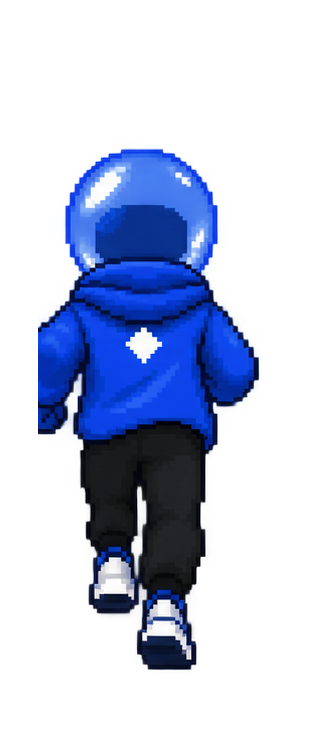
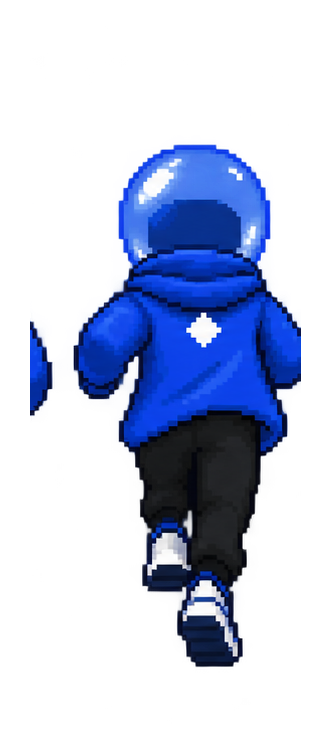
feat: add slide hazards and smooth runner cycle

diff --git a/public/index.html b/public/index.html
@@ -6,20 +6,20 @@
 <meta name="theme-color" content="#126cff">
 <title>DLICOM RUNNER</title>
 <style>
-:root{--blue:#126cff;--ink:#05070d;--paper:#f7f9ff;--muted:#9ca6bd;--line:#263047;--red:#ff416c}*{box-sizing:border-box}html,body{min-height:100%;margin:0;background:var(--ink);color:var(--paper);font-family:Arial,Helvetica,sans-serif}body{overflow-x:hidden}.shell{width:min(1080px,100%);margin:auto;padding:0 14px}.top{height:66px;display:flex;align-items:center;justify-content:space-between;border-bottom:1px solid var(--line)}.mark{font-size:20px;font-weight:950;letter-spacing:-1.7px}.mark i{display:inline-block;color:var(--blue);font-style:normal;transform:skew(-12deg)}.rule{font:700 11px monospace;letter-spacing:.12em;color:var(--muted)}.intro{padding:38px 0 28px;display:grid;justify-items:center;gap:24px;text-align:center}.intro h1{margin:0;font-size:clamp(48px,9vw,105px);line-height:.78;letter-spacing:-.1em}.intro h1 span{color:var(--blue)}.brief{width:min(440px,100%);border:1px solid var(--line);background:#0b0f19;padding:17px;color:#cbd4e7;font-size:14px;line-height:1.52;text-align:justify}.brief b:first-child{display:block;text-align:center;color:var(--blue);font:900 11px monospace;letter-spacing:.1em}.arena{position:relative;aspect-ratio:16/9;min-height:420px;overflow:hidden;border:1px solid var(--line);background:#080b12;touch-action:none}.arena canvas{display:block;width:100%;height:100%}.hud{pointer-events:none;position:absolute;inset:0;padding:15px;display:flex;justify-content:space-between;align-items:flex-start}.scorebox{display:flex;gap:11px;font:900 11px monospace;color:#aeb9ce}.scorebox b{display:block;color:var(--blue);font-size:21px;letter-spacing:-1px}.surge{opacity:0;background:var(--blue);color:#fff;padding:7px 10px;font:900 11px monospace;letter-spacing:.08em;transition:opacity .15s}.surge.on{opacity:1}.overlay{position:absolute;inset:0;display:grid;place-items:center;text-align:center;background:rgba(5,7,13,.72);padding:20px}.overlay>div{width:min(100%,460px);display:grid;justify-items:center}.overlay[hidden]{display:none}.overlay h2{margin:0 0 13px;font-size:clamp(42px,8vw,82px);line-height:.8;letter-spacing:-.1em}.overlay p{max-width:390px;margin:0 0 21px;color:#c7d1e7;line-height:1.45}.arena.collect{box-shadow:inset 0 0 170px 55px rgba(18,108,255,.85);border-color:#b9d7ff}.arena.damage{box-shadow:inset 0 0 170px 55px rgba(255,65,108,.85);border-color:#ff9ab0}.button{appearance:none;min-height:46px;border:0;background:var(--blue);color:#fff;padding:13px 17px;font:900 13px monospace;letter-spacing:.08em;cursor:pointer}.button:hover{filter:brightness(1.15)}.button:focus-visible{outline:3px solid white;outline-offset:3px}.below{display:grid;grid-template-columns:1fr 1fr 1.45fr;gap:1px;margin:1px 0 38px;background:var(--line)}.panel{min-height:108px;padding:17px;background:#0a0e17}.panel span{display:block;color:var(--muted);font:700 10px monospace;letter-spacing:.1em}.panel strong{display:block;margin-top:7px;font-size:30px;letter-spacing:-.06em}.actions{display:flex;flex-wrap:wrap;gap:8px;margin-top:12px}.secondary{border:1px solid #53617b;background:transparent}.ref{margin-top:10px;color:#9fa9be;font:11px monospace;word-break:break-all}.foot{padding:18px 0 42px;color:#78839b;font:12px monospace}@media(max-width:680px){.intro{grid-template-columns:1fr;padding:29px 0 22px}.brief{width:100%}.arena{margin-left:-14px;margin-right:-14px;aspect-ratio:9/13;min-height:480px;border-left:0;border-right:0}.below{grid-template-columns:1fr}.rule{font-size:9px}}
+:root{--blue:#126cff;--ink:#05070d;--paper:#f7f9ff;--muted:#9ca6bd;--line:#263047;--red:#ff416c}*{box-sizing:border-box}html,body{min-height:100%;margin:0;background:var(--ink);color:var(--paper);font-family:Arial,Helvetica,sans-serif}body{overflow-x:hidden}.shell{width:min(1080px,100%);margin:auto;padding:0 14px}.top{height:66px;display:flex;align-items:center;justify-content:space-between;border-bottom:1px solid var(--line)}.mark{font-size:20px;font-weight:950;letter-spacing:-1.7px}.mark i{display:inline-block;color:var(--blue);font-style:normal;transform:skew(-12deg)}.rule{font:700 11px monospace;letter-spacing:.12em;color:var(--muted)}.intro{padding:38px 0 28px;display:grid;justify-items:center;gap:24px;text-align:center}.intro h1{margin:0;font-size:clamp(48px,9vw,105px);line-height:.78;letter-spacing:-.1em}.intro h1 span{color:var(--blue)}.brief{width:min(440px,100%);border:1px solid var(--line);background:#0b0f19;padding:17px;color:#cbd4e7;font-size:14px;line-height:1.52;text-align:justify}.brief b:first-child{display:block;text-align:center;color:var(--blue);font:900 11px monospace;letter-spacing:.1em}.arena{position:relative;aspect-ratio:16/9;min-height:420px;overflow:hidden;border:1px solid var(--line);background:#080b12;touch-action:none}.arena canvas{display:block;width:100%;height:100%}.hud{pointer-events:none;position:absolute;inset:0;padding:15px;display:flex;justify-content:space-between;align-items:flex-start}.scorebox{display:flex;gap:11px;font:900 11px monospace;color:#aeb9ce}.scorebox b{display:block;color:var(--blue);font-size:21px;letter-spacing:-1px}.surge{opacity:0;background:var(--blue);color:#fff;padding:7px 10px;font:900 11px monospace;letter-spacing:.08em;transition:opacity .15s}.surge.on{opacity:1}.slide{pointer-events:auto;position:absolute;right:12px;bottom:12px;min-height:56px;min-width:96px;border:2px solid var(--blue);background:rgba(5,7,13,.55);color:#fff;font:900 13px monospace;letter-spacing:.08em;cursor:pointer;touch-action:none}.slide:active{background:var(--blue)}.overlay{position:absolute;inset:0;display:grid;place-items:center;text-align:center;background:rgba(5,7,13,.72);padding:20px}.overlay>div{width:min(100%,460px);display:grid;justify-items:center}.overlay[hidden]{display:none}.overlay h2{margin:0 0 13px;font-size:clamp(42px,8vw,82px);line-height:.8;letter-spacing:-.1em}.overlay p{max-width:390px;margin:0 0 21px;color:#c7d1e7;line-height:1.45}.arena.collect{box-shadow:inset 0 0 170px 55px rgba(18,108,255,.85);border-color:#b9d7ff}.arena.damage{box-shadow:inset 0 0 170px 55px rgba(255,65,108,.85);border-color:#ff9ab0}.button{appearance:none;min-height:46px;border:0;background:var(--blue);color:#fff;padding:13px 17px;font:900 13px monospace;letter-spacing:.08em;cursor:pointer}.button:hover{filter:brightness(1.15)}.button:focus-visible{outline:3px solid white;outline-offset:3px}.below{display:grid;grid-template-columns:1fr 1fr 1.45fr;gap:1px;margin:1px 0 38px;background:var(--line)}.panel{min-height:108px;padding:17px;background:#0a0e17}.panel span{display:block;color:var(--muted);font:700 10px monospace;letter-spacing:.1em}.panel strong{display:block;margin-top:7px;font-size:30px;letter-spacing:-.06em}.actions{display:flex;flex-wrap:wrap;gap:8px;margin-top:12px}.secondary{border:1px solid #53617b;background:transparent}.ref{margin-top:10px;color:#9fa9be;font:11px monospace;word-break:break-all}.foot{padding:18px 0 42px;color:#78839b;font:12px monospace}@media(max-width:680px){.intro{grid-template-columns:1fr;padding:29px 0 22px}.brief{width:100%}.arena{margin-left:-14px;margin-right:-14px;aspect-ratio:9/13;min-height:480px;border-left:0;border-right:0}.below{grid-template-columns:1fr}.rule{font-size:9px}}
 </style>
 </head>
 <body><div class="shell">
 <header class="top"><div class="mark">DLICOM<i>◆</i>RUNNER</div></header>
-<main><section class="intro"><h1>MAKE A<br><span>DILI</span><br>RUN AWAY.</h1><div class="brief"><b>HOW TO RUN</b><br>Swipe or press left/right to switch lanes. Press space to jump over red barriers. Catch blue signals. Avoid red noise. Every 3 signals triggers <b>DILI-SUPER MODE</b>: double score and immunity.</div></section>
-<section class="arena" id="arena" aria-label="Dlicom Runner game"><div class="hud"><div class="scorebox"><div>SCORE<b id="score">00000</b></div><div>BEST<b id="best">00000</b></div></div><div class="surge" id="surge">DILI-SUPER MODE ACTIVATED ×2</div></div><div class="overlay" id="overlay"><div><h2 id="stateTitle">READY?</h2><p id="stateCopy">Swipe, tap a side, or use arrow keys to switch lanes.</p><button class="button" id="play">START RUN</button></div></div></section>
+<main><section class="intro"><h1>MAKE A<br><span>DILI</span><br>RUN AWAY.</h1><div class="brief"><b>HOW TO RUN</b><br>Swipe or press left/right to switch lanes. Press space to jump over red barriers. Press SLIDE or down/S to duck floating hazards. Catch blue signals. Avoid red noise. Every 3 signals triggers <b>DILI-SUPER MODE</b>: double score and immunity.</div></section>
+<section class="arena" id="arena" aria-label="Dlicom Runner game"><div class="hud"><div class="scorebox"><div>SCORE<b id="score">00000</b></div><div>BEST<b id="best">00000</b></div></div><div class="surge" id="surge">DILI-SUPER MODE ACTIVATED ×2</div></div><button class="slide" id="slideBtn" aria-label="Slide under floating obstacle">SLIDE</button><div class="overlay" id="overlay"><div><h2 id="stateTitle">READY?</h2><p id="stateCopy">Swipe or tap side to switch lanes. Space jumps low barriers. Slide ducks floating hazards.</p><button class="button" id="play">START RUN</button></div></div></section>
 <section class="below"><div class="panel"><span>BEST RUN</span><strong id="bestPanel">0</strong></div><div class="panel"><span>SHIELD BOOST</span><strong id="shieldPanel">0 / 3</strong><div class="ref" id="refText"></div></div><div class="panel"><span>AFTER RUN</span><div class="actions"><button class="button secondary" id="share">POST SCORE ON X</button><button class="button secondary" id="banner">SAVE BANNER</button></div></div></section>
 </main><footer class="foot">DLICOM RUNNER · PLAY FIRST</footer></div>
 <script type="module">
 import * as THREE from './vendor/three.module.min.js';
 import {newGame,advance,difficultyLevel} from './game-core.js';
-const el=id=>document.querySelector('#'+id), arena=el('arena'), scoreEl=el('score'),bestEl=el('best'),bestPanel=el('bestPanel'),surgeEl=el('surge'),overlay=el('overlay'),play=el('play');
-let renderer,scene,camera,player,clock,game,entities=[],roadMarkers=[],bursts=[],runnerTextures=[],jumpTextures=[],audioCtx,musicTimer=null,musicStep=0,runClock=0,prevLevel=1,running=false,lane=1,high=Number(localStorage.dlicomRunnerHigh||0),lastSpawn=0,pointerX=null,jumpRequested=false,flashTimer=0,damageTimer=0;
+const el=id=>document.querySelector('#'+id), arena=el('arena'), scoreEl=el('score'),bestEl=el('best'),bestPanel=el('bestPanel'),surgeEl=el('surge'),overlay=el('overlay'),play=el('play'),slideBtn=el('slideBtn');
+let renderer,scene,camera,player,clock,game,entities=[],roadMarkers=[],bursts=[],runnerTextures=[],jumpTextures=[],audioCtx,musicTimer=null,musicStep=0,runClock=0,prevLevel=1,prevSurge=0,running=false,lane=1,high=Number(localStorage.dlicomRunnerHigh||0),lastSpawn=0,pointerX=null,jumpRequested=false,slideRequested=false,flashTimer=0,damageTimer=0;
 const lanes=[-2.7,0,2.7], shields=Number(localStorage.dlicomRunnerShield||0),refCode=localStorage.dlicomRunnerCode||(localStorage.dlicomRunnerCode=Math.random().toString(36).slice(2,8).toUpperCase());
 const incoming=new URLSearchParams(location.search).get('ref');if(incoming&&incoming!==localStorage.dlicomRunnerRef){localStorage.dlicomRunnerRef=incoming;localStorage.dlicomRunnerShield=Math.min(3,shields+1)}
 el('shieldPanel').textContent=`${Number(localStorage.dlicomRunnerShield||0)} / 3`;el('refText').textContent=`INVITE LINK: ${location.origin+location.pathname}?ref=${refCode}`;
@@ -29,19 +29,19 @@ function runnerSprite(){const loader=new THREE.TextureLoader();loadFrames(loader
 function setup(){scene=new THREE.Scene();scene.background=new THREE.Color(0x05070d);scene.fog=new THREE.Fog(0x05070d,12,56);camera=new THREE.PerspectiveCamera(58,1,.1,100);camera.position.set(0,4.8,9.8);camera.lookAt(0,1,-10);renderer=new THREE.WebGLRenderer({antialias:true,powerPreference:'high-performance'});renderer.setPixelRatio(Math.min(devicePixelRatio,2));renderer.outputColorSpace=THREE.SRGBColorSpace;arena.prepend(renderer.domElement);scene.add(new THREE.HemisphereLight(0x6ba7ff,0x03050b,2.2));const light=new THREE.DirectionalLight(0xffffff,2);light.position.set(4,8,4);scene.add(light);const floor=new THREE.Mesh(new THREE.PlaneGeometry(18,160),new THREE.MeshStandardMaterial({color:0x09101e,roughness:.95}));floor.rotation.x=-Math.PI/2;floor.position.z=-42;scene.add(floor);const railMat=new THREE.MeshStandardMaterial({color:0x126cff,emissive:0x0d3f9a,emissiveIntensity:.8});for(const x of[-5.4,5.4]){const rail=new THREE.Mesh(new THREE.BoxGeometry(.1,.1,160),railMat);rail.position.set(x,.07,-42);scene.add(rail)}const markerMat=new THREE.MeshStandardMaterial({color:0x2d7cff,emissive:0x126cff,emissiveIntensity:1.4});for(let z=4;z>-108;z-=4){for(const x of[-1.35,1.35]){const marker=new THREE.Mesh(new THREE.BoxGeometry(.11,.035,1.65),markerMat);marker.position.set(x,.025,z);scene.add(marker);roadMarkers.push(marker)}const beacon=new THREE.Mesh(new THREE.BoxGeometry(.2,.2,.2),markerMat);beacon.position.set(z%8?5.15:-5.15,1.2,z);scene.add(beacon);roadMarkers.push(beacon)}player=runnerSprite();player.position.set(0,0,3.05);scene.add(player);clock=new THREE.Clock();resize();addEventListener('resize',resize)}
 function burst(position,type){const color=type==='signal'?0x6fb0ff:0xff416c;const material=new THREE.MeshBasicMaterial({color,transparent:true,opacity:1});const group=new THREE.Group();group.position.copy(position);for(let i=0;i<34;i++){const p=new THREE.Mesh(new THREE.OctahedronGeometry(.09+Math.random()*.08),material.clone());const a=Math.random()*Math.PI*2;p.userData.v=new THREE.Vector3(Math.cos(a)*(2.2+Math.random()*2),.5+Math.random()*3.5,(Math.random()-.5)*3.2);group.add(p)}scene.add(group);bursts.push({group,life:.78})}
 function beep(freq,stop,dur,type,gain=.14){const t=audioCtx.currentTime,osc=audioCtx.createOscillator(),env=audioCtx.createGain();osc.type=type;osc.frequency.setValueAtTime(freq,t);if(stop)osc.frequency.exponentialRampToValueAtTime(stop,t+dur);env.gain.setValueAtTime(gain,t);env.gain.exponentialRampToValueAtTime(.0001,t+dur);osc.connect(env).connect(audioCtx.destination);osc.start(t);osc.stop(t+dur)}
-function sfx(kind){if(!audioCtx)return;if(kind==='collect'){beep(760,1280,.16,'sine');setTimeout(()=>beep(1020,1560,.14,'sine'),70)}else if(kind==='hit'){beep(300,70,.3,'sawtooth',.2)}else if(kind==='jump'){beep(340,760,.2,'triangle')}else if(kind==='surge'){beep(520,2080,.5,'square',.1)}}
+function sfx(kind){if(!audioCtx)return;if(kind==='collect'){beep(760,1280,.16,'sine');setTimeout(()=>beep(1020,1560,.14,'sine'),70)}else if(kind==='hit'){beep(300,70,.3,'sawtooth',.2)}else if(kind==='jump'){beep(340,760,.2,'triangle')}else if(kind==='surge'){beep(520,2080,.5,'square',.1)}else if(kind==='supermode'){beep(392,784,.18,'square',.12);setTimeout(()=>beep(523,1046,.18,'square',.12),140);setTimeout(()=>beep(659,1318,.3,'square',.12),280)}}
 const MUSIC_VOLUME=.30;
 function musicBeat(){if(!running)return;const bass=[110,110,165,110,146,110,196,146][musicStep%8],lead=[440,523,659,523,587,659,784,659][musicStep%8];beep(bass,0,.12,'square',.09*MUSIC_VOLUME);if(musicStep%2===0)beep(lead,0,.08,'triangle',.05*MUSIC_VOLUME);musicStep++}
 function startMusic(){clearInterval(musicTimer);musicStep=0;musicBeat();musicTimer=setInterval(musicBeat,150)}
 function stopMusic(){clearInterval(musicTimer);musicTimer=null}
 function removeEntity(entity,type){scene.remove(entity);entity.userData.dead=true;burst(entity.position,type);if(type==='signal'){sfx('collect');flashTimer=.32;arena.classList.remove('collect');void arena.offsetWidth;arena.classList.add('collect')}else if(type==='jump'){sfx('jump')}else{sfx('hit');damageTimer=.42;arena.classList.remove('damage');void arena.offsetWidth;arena.classList.add('damage')}}
 function resize(){const r=arena.getBoundingClientRect();camera.aspect=r.width/r.height;camera.updateProjectionMatrix();renderer.setSize(r.width,r.height,false)}
-function spawn(){const level=difficultyLevel(game.score),roll=Math.random(),signal=roll<.58-level*.05,jumpable=!signal&&roll<.82-level*.02,g=new THREE.Group();if(signal){const m=new THREE.MeshStandardMaterial({color:0x55a0ff,emissive:0x126cff,emissiveIntensity:2});g.add(new THREE.Mesh(new THREE.OctahedronGeometry(.34),m));g.userData.type='signal'}else{const m=new THREE.MeshStandardMaterial({color:0xff416c,emissive:0x6b1027,emissiveIntensity:1.1});if(jumpable){const bar=new THREE.Mesh(new THREE.BoxGeometry(2.5,.5,.3),m);bar.position.y=.5;g.add(bar);const foot=new THREE.Mesh(new THREE.BoxGeometry(2.5,.14,.34),new THREE.MeshStandardMaterial({color:0x2d7cff,emissive:0x126cff,emissiveIntensity:1.6}));foot.position.y=.28;g.add(foot);g.userData.type='jump'}else if(level>=3&&roll>.97){const wall=new THREE.Mesh(new THREE.BoxGeometry(7.5,2.6,.4),m);wall.position.y=1.3;g.add(wall);const gapHint=new THREE.Mesh(new THREE.OctahedronGeometry(.3),new THREE.MeshStandardMaterial({color:0x2d7cff,emissive:0x126cff,emissiveIntensity:2}));gapHint.position.set(0,.55,.3);g.add(gapHint);g.userData.type='noise'}else{const a=new THREE.Mesh(new THREE.BoxGeometry(1.6,1.6,.25),m);a.rotation.z=Math.PI/4;g.add(a);g.userData.type='noise'}}g.position.set(lanes[Math.floor(Math.random()*3)],signal?1.3:0,-48);g.userData.hit=false;scene.add(g);entities.push(g)}
+function spawn(){const level=difficultyLevel(game.score),roll=Math.random(),signal=roll<.58-level*.05,jumpable=!signal&&roll<.82-level*.02,drone=!signal&&roll>=.82&&roll<.9,g=new THREE.Group();if(signal){const m=new THREE.MeshStandardMaterial({color:0x55a0ff,emissive:0x126cff,emissiveIntensity:2});g.add(new THREE.Mesh(new THREE.OctahedronGeometry(.34),m));g.userData.type='signal'}else{const m=new THREE.MeshStandardMaterial({color:0xff416c,emissive:0x6b1027,emissiveIntensity:1.1});if(drone){const bar=new THREE.Mesh(new THREE.BoxGeometry(2.3,.55,.4),m);bar.position.y=1.55;g.add(bar);const under=new THREE.Mesh(new THREE.OctahedronGeometry(.24),new THREE.MeshStandardMaterial({color:0x2d7cff,emissive:0x126cff,emissiveIntensity:1.8}));under.position.y=1.05;g.add(under);g.userData.type='drone'}else if(jumpable){const bar=new THREE.Mesh(new THREE.BoxGeometry(2.5,.5,.3),m);bar.position.y=.5;g.add(bar);const foot=new THREE.Mesh(new THREE.BoxGeometry(2.5,.14,.34),new THREE.MeshStandardMaterial({color:0x2d7cff,emissive:0x126cff,emissiveIntensity:1.6}));foot.position.y=.28;g.add(foot);g.userData.type='jump'}else if(level>=3&&roll>.97){const wall=new THREE.Mesh(new THREE.BoxGeometry(7.5,2.6,.4),m);wall.position.y=1.3;g.add(wall);const gapHint=new THREE.Mesh(new THREE.OctahedronGeometry(.3),new THREE.MeshStandardMaterial({color:0x2d7cff,emissive:0x126cff,emissiveIntensity:2}));gapHint.position.set(0,.55,.3);g.add(gapHint);g.userData.type='noise'}else{const a=new THREE.Mesh(new THREE.BoxGeometry(1.6,1.6,.25),m);a.rotation.z=Math.PI/4;g.add(a);g.userData.type='noise'}}g.position.set(lanes[Math.floor(Math.random()*3)],signal?1.3:0,-48);g.userData.hit=false;scene.add(g);entities.push(g)}
 function move(dir){if(!running)return;game=advance(game,{lane:dir,dt:0});lane=game.lane}
-function reset(){audioCtx??=new AudioContext();audioCtx.resume();game=newGame(Date.now(),Number(localStorage.dlicomRunnerShield||0));lane=game.lane;entities.forEach(x=>scene.remove(x));entities=[];lastSpawn=0;runClock=0;prevLevel=1;clock.start();running=true;overlay.hidden=true;startMusic();requestAnimationFrame(loop)}
+function reset(){audioCtx??=new AudioContext();audioCtx.resume();game=newGame(Date.now(),Number(localStorage.dlicomRunnerShield||0));lane=game.lane;entities.forEach(x=>scene.remove(x));entities=[];lastSpawn=0;runClock=0;prevLevel=1;prevSurge=0;clock.start();running=true;overlay.hidden=true;startMusic();requestAnimationFrame(loop)}
 function finish(){running=false;stopMusic();high=Math.max(high,game.score);localStorage.dlicomRunnerHigh=high;overlay.hidden=false;el('stateTitle').textContent='LOST SIGNAL';el('stateCopy').textContent=`RUN SCORE ${game.score} · BEST COMBO ${game.bestCombo}`;play.textContent='RUN AGAIN';bestEl.textContent=String(high).padStart(5,'0');bestPanel.textContent=high}
-function loop(){if(!running)return;const dt=Math.min(.04,clock.getDelta()),speed=13+Math.min(15,game.distance*.55);runClock+=dt;lastSpawn+=dt;if(lastSpawn>.7){spawn();lastSpawn=0}let collect=false,hit=false;for(const e of entities){e.position.z+=speed*dt;e.rotation.y+=dt*2;if(!e.userData.hit&&e.position.z>0.7&&e.position.z<2.1&&Math.abs(e.position.x-lanes[lane])<.7){if(e.userData.type==='jump'&&game.jump>0){continue}e.userData.hit=true;if(e.userData.type==='signal')collect=true;else hit=true;removeEntity(e,e.userData.type)}if(e.position.z>11){scene.remove(e);e.userData.dead=true}}entities=entities.filter(e=>!e.userData.dead);for(const b of bursts){b.life-=dt;for(const p of b.group.children){p.position.addScaledVector(p.userData.v,dt);p.userData.v.y-=dt*4;p.material.opacity=Math.max(0,b.life*2)}b.group.children.forEach(p=>p.rotation.z+=dt*6);if(b.life<=0)scene.remove(b.group)}bursts=bursts.filter(b=>b.life>0);for(const m of roadMarkers){m.position.z+=speed*dt;if(m.position.z>14)m.position.z-=112}game=advance(game,{collect,hit,jump:jumpRequested,dt});jumpRequested=false;const level=difficultyLevel(game.score);if(level>prevLevel){sfx('surge');prevLevel=level}player.position.x+=(lanes[lane]-player.position.x)*Math.min(1,dt*13);player.rotation.z=(lanes[lane]-player.position.x)*-.15;const jumpPhase=1-game.jump/.62;player.position.y=game.jump>0?Math.sin(jumpPhase*Math.PI)*1.35:0;player.userData.sprite.material.map=game.jump>0?jumpTextures[Math.min(7,Math.floor(jumpPhase*8))]:runnerTextures[Math.floor(runClock*10)%8];scene.fog.color.set(game.surge>0?0x071a43:0x05070d);surgeEl.classList.toggle('on',game.surge>0);scoreEl.textContent=String(game.score).padStart(5,'0');bestEl.textContent=String(high).padStart(5,'0');if(flashTimer>0){flashTimer-=dt;if(flashTimer<=0)arena.classList.remove('collect')}if(damageTimer>0){damageTimer-=dt;if(damageTimer<=0)arena.classList.remove('damage')}renderer.render(scene,camera);if(game.over){finish();return}requestAnimationFrame(loop)}
+function loop(){if(!running)return;const dt=Math.min(.04,clock.getDelta()),speed=13+Math.min(15,game.distance*.55);runClock+=dt;lastSpawn+=dt;if(lastSpawn>.7){spawn();lastSpawn=0}let collect=false,hit=false;for(const e of entities){e.position.z+=speed*dt;e.rotation.y+=dt*2;if(!e.userData.hit&&e.position.z>0.7&&e.position.z<2.1&&Math.abs(e.position.x-lanes[lane])<.7){if((e.userData.type==='jump'&&game.jump>0)||(e.userData.type==='drone'&&game.slide>0)){e.userData.hit=true;removeEntity(e,e.userData.type);continue}e.userData.hit=true;if(e.userData.type==='signal')collect=true;else hit=true;removeEntity(e,e.userData.type)}if(e.position.z>11){scene.remove(e);e.userData.dead=true}}entities=entities.filter(e=>!e.userData.dead);for(const b of bursts){b.life-=dt;for(const p of b.group.children){p.position.addScaledVector(p.userData.v,dt);p.userData.v.y-=dt*4;p.material.opacity=Math.max(0,b.life*2)}b.group.children.forEach(p=>p.rotation.z+=dt*6);if(b.life<=0)scene.remove(b.group)}bursts=bursts.filter(b=>b.life>0);for(const m of roadMarkers){m.position.z+=speed*dt;if(m.position.z>14)m.position.z-=112}game=advance(game,{collect,hit,jump:jumpRequested,slide:slideRequested,dt});jumpRequested=false;slideRequested=false;if(game.surge>0&&prevSurge<=0){sfx('supermode');flashTimer=.32}prevSurge=game.surge;const level=difficultyLevel(game.score);if(level>prevLevel){sfx('surge');prevLevel=level}player.position.x+=(lanes[lane]-player.position.x)*Math.min(1,dt*13);player.rotation.z=(lanes[lane]-player.position.x)*-.15;const jumpPhase=1-game.jump/.62;player.position.y=game.jump>0?Math.sin(jumpPhase*Math.PI)*1.35:0;player.scale.y=game.slide>0?.55:1;player.userData.sprite.material.map=game.jump>0?jumpTextures[Math.min(7,Math.floor(jumpPhase*8))]:runnerTextures[Math.floor(runClock*10)%8];scene.fog.color.set(game.surge>0?0x071a43:0x05070d);surgeEl.classList.toggle('on',game.surge>0);scoreEl.textContent=String(game.score).padStart(5,'0');bestEl.textContent=String(high).padStart(5,'0');if(flashTimer>0){flashTimer-=dt;if(flashTimer<=0)arena.classList.remove('collect')}if(damageTimer>0){damageTimer-=dt;if(damageTimer<=0)arena.classList.remove('damage')}renderer.render(scene,camera);if(game.over){finish();return}requestAnimationFrame(loop)}
 function post(){const text=`I scored ${high} in DLICOM RUNNER. Keep the signal alive.\n${location.origin+location.pathname}?ref=${refCode}`;open('https://x.com/intent/post?text='+encodeURIComponent(text),'_blank','noopener')}
 function saveBanner(){const b=document.createElement('canvas');b.width=1200;b.height=630;const x=b.getContext('2d');x.fillStyle='#05070d';x.fillRect(0,0,b.width,b.height);x.fillStyle='#126cff';x.fillRect(0,0,20,b.height);x.fillStyle='#fff';x.font='900 70px Arial';x.fillText('DLICOM RUNNER',75,110);x.fillStyle='#126cff';x.font='900 190px Arial';x.fillText(String(high).padStart(5,'0'),70,340);x.fillStyle='#cbd4e7';x.font='32px Arial';x.fillText('KEEP THE SIGNAL ALIVE.',75,410);x.fillStyle='#126cff';x.beginPath();x.arc(1010,310,150,0,Math.PI*2);x.fill();x.fillStyle='#fff';x.font='900 110px Arial';x.fillText('◆',950,350);const a=document.createElement('a');a.download='dlicom-runner-score.png';a.href=b.toDataURL('image/png');a.click()}
-addEventListener('keydown',e=>{if(e.key==='ArrowLeft'||e.key==='a')move(-1);if(e.key==='ArrowRight'||e.key==='d')move(1);if((e.key===' '||e.code==='Space')&&running){e.preventDefault();jumpRequested=true}});arena.addEventListener('pointerdown',e=>{pointerX=e.clientX});arena.addEventListener('pointerup',e=>{if(pointerX===null)return;const dx=e.clientX-pointerX;move(Math.abs(dx)>22?(dx>0?1:-1):(e.clientX>arena.getBoundingClientRect().left+arena.clientWidth/2?1:-1));pointerX=null});play.onclick=reset;el('share').onclick=post;el('banner').onclick=saveBanner;bestEl.textContent=String(high).padStart(5,'0');bestPanel.textContent=high;setup();renderer.render(scene,camera);
+addEventListener('keydown',e=>{if(e.key==='ArrowLeft'||e.key==='a')move(-1);if(e.key==='ArrowRight'||e.key==='d')move(1);if((e.key===' '||e.code==='Space')&&running){e.preventDefault();jumpRequested=true}if((e.key==='ArrowDown'||e.key==='s')&&running){e.preventDefault();slideRequested=true}});slideBtn.addEventListener('pointerdown',e=>{e.preventDefault();if(running)slideRequested=true});arena.addEventListener('pointerdown',e=>{pointerX=e.clientX});arena.addEventListener('pointerup',e=>{if(pointerX===null)return;const dx=e.clientX-pointerX;move(Math.abs(dx)>22?(dx>0?1:-1):(e.clientX>arena.getBoundingClientRect().left+arena.clientWidth/2?1:-1));pointerX=null});play.onclick=reset;el('share').onclick=post;el('banner').onclick=saveBanner;bestEl.textContent=String(high).padStart(5,'0');bestPanel.textContent=high;setup();renderer.render(scene,camera);
 </script></body></html>

diff --git a/public/game-core.js b/public/game-core.js
@@ -8,7 +8,7 @@ export function newGame(seed = 1, shields = 0) {
     seed, shields,
     lane: 1,
     score: 0, combo: 0, bestCombo: 0,
-    multiplier: 1, surge: 0, jump: 0,
+    multiplier: 1, surge: 0, jump: 0, slide: 0,
     distance: 0, over: false,
   };
 }
@@ -18,13 +18,15 @@ export function difficultyLevel(score) {
   return Math.min(6, 1 + Math.floor(Math.max(0, score) / 500));
 }
 
-export function advance(state, { lane = 0, collect = false, hit = false, jump = false, dt = 0 } = {}) {
+export function advance(state, { lane = 0, collect = false, hit = false, jump = false, slide = false, dt = 0 } = {}) {
   if (state.over) return state;
   const next = { ...state, score: state.score, surge: state.surge, combo: state.combo };
   next.distance = state.distance + dt;
 
-  if (jump && next.jump <= 0) next.jump = .62; // JUMP: vaults jumpable obstacles
+  if (jump && next.jump <= 0 && next.slide <= 0) next.jump = .62; // JUMP: vaults low barriers
+  if (slide && next.slide <= 0 && next.jump <= 0) next.slide = .48; // SLIDE: ducks floating hazards
   if (next.jump > 0) next.jump = Math.max(0, next.jump - dt);
+  if (next.slide > 0) next.slide = Math.max(0, next.slide - dt);
 
   if (lane) {
     next.lane = Math.max(0, Math.min(LANES - 1, state.lane + lane));

diff --git a/test/game-core.test.js b/test/game-core.test.js
@@ -56,3 +56,18 @@ test('difficulty level rises at score milestones', () => {
   assert.equal(difficultyLevel(1500), 4);
   assert.equal(difficultyLevel(99999), 6);
 });
+
+test('slide starts once and expires, and cannot overlap jump', () => {
+  let state = advance(newGame(7), { slide: true, dt: 0 });
+  assert.ok(state.slide > 0);
+  state = advance(state, { slide: true, dt: .1 });
+  assert.ok(state.slide < .55);
+  state = advance(state, { dt: 1 });
+  assert.equal(state.slide, 0);
+  const midJump = advance(newGame(7), { jump: true, dt: .1 });
+  const blocked = advance(midJump, { slide: true, dt: 0 });
+  assert.equal(blocked.slide, 0);
+  const midSlide = advance(newGame(7), { slide: true, dt: .1 });
+  const noJump = advance(midSlide, { jump: true, dt: 0 });
+  assert.equal(noJump.jump, 0);
+});
